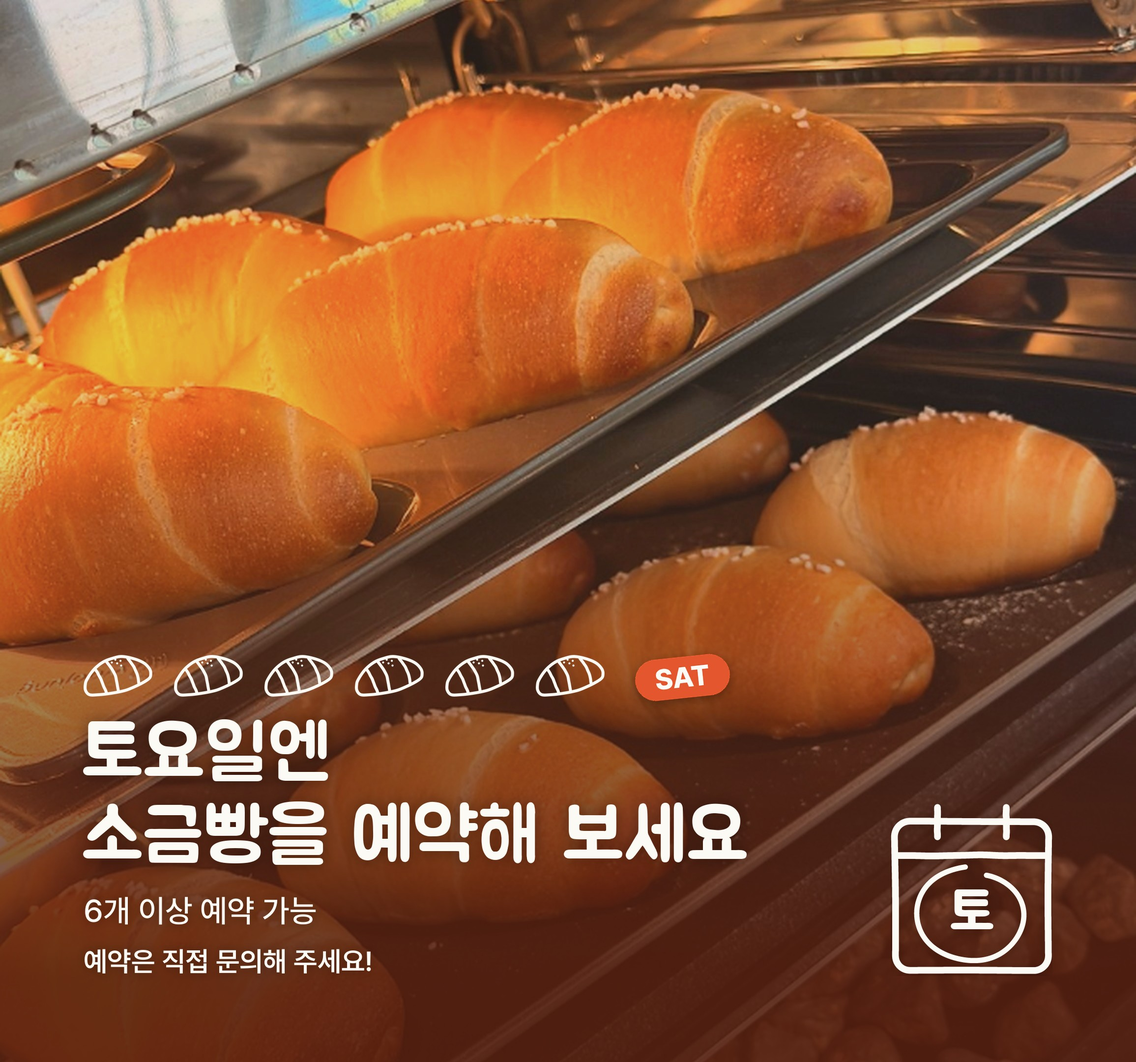
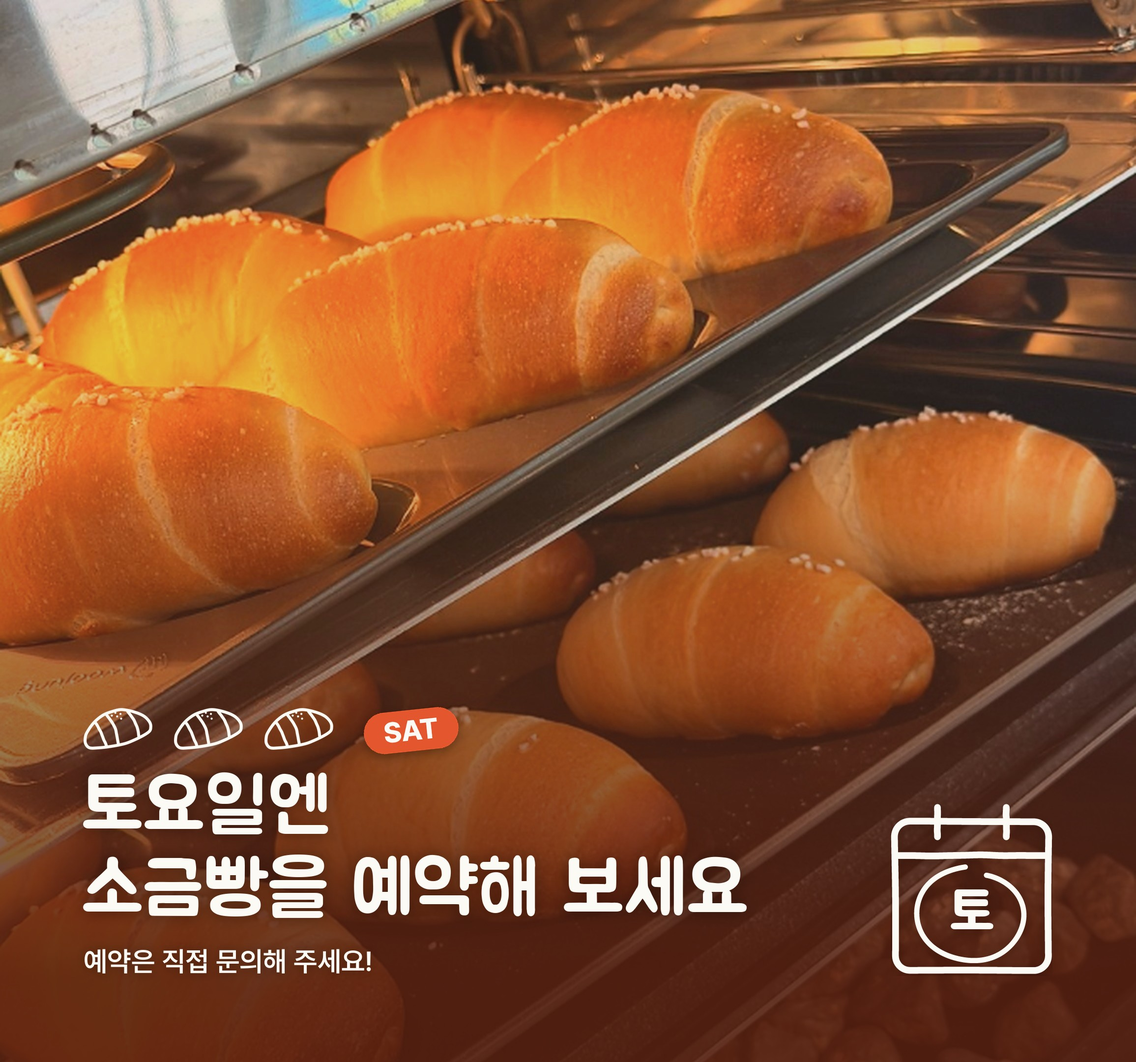
토요일 예약 광고 카드에서 '6개 이상 예약 가능' 문구 제거
Claude-Session: https://claude.ai/code/session_012HYTAtRX4y2XSQaXUTKD2R

Changed region(s): [[0.0623, 0.6204, 0.6543, 0.8685], [0.5608, 0.6204, 0.6543, 0.6824]]

diff --git a/index.html b/index.html
@@ -112,7 +112,7 @@
         <video class="slide" src="slides/espresso.mp4?v=2" muted playsinline preload="auto" data-dur="8200"></video>
         <img class="slide ad" src="slides/ad_insta.jpg" alt="" data-dur="10000">
         <img class="slide" src="slides/07.jpg?v=1" alt="">
-        <img class="slide ad" src="slides/ad_reserve.jpg" alt="" data-dur="10000">
+        <img class="slide ad" src="slides/ad_reserve.jpg?v=2" alt="" data-dur="10000">
         <img class="slide" src="slides/05.jpg" alt="">
         <img class="slide" src="slides/01.jpg?v=3" alt="">
       </div>
